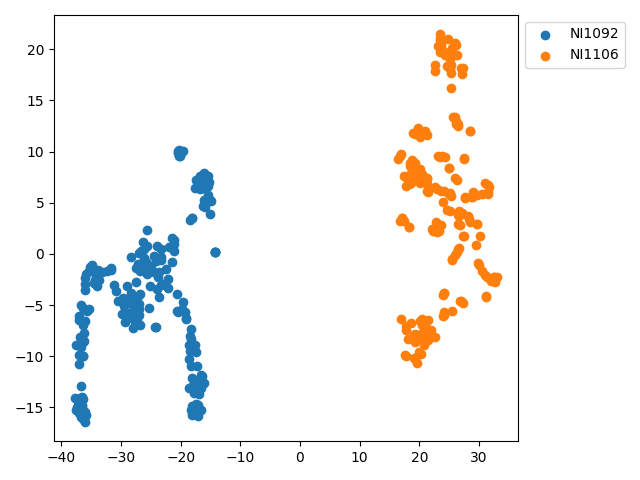
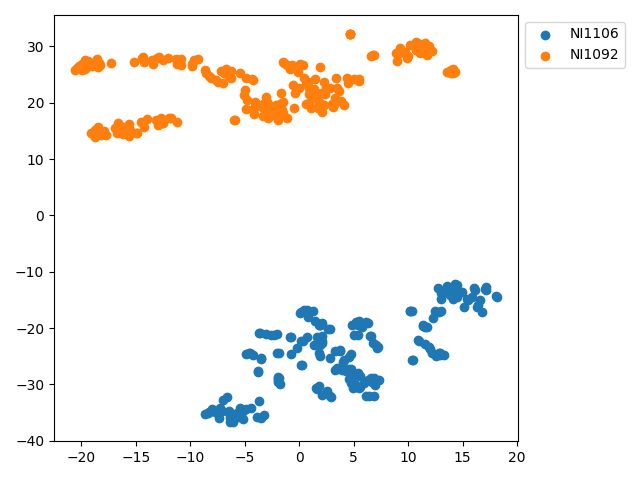
modal visualization image fix

diff --git a/recognition/templates/recognition/train1.html b/recognition/templates/recognition/train1.html
@@ -42,11 +42,9 @@ $(document).ready(function(){
                  dataType:'text',   
                     url:"/train",
                     success:function(data){
-                        if(data==="success"){
                             $('.train-load').addClass('d-none');
+                            $('#model-img').attr('src',data)
                             $('.train-done').removeClass('d-none');
-                            // $('#model-img').attr('src','/static/recognition/img/training_visualisation.png')
-                        }
                     }
                           });
 
@@ -98,7 +96,7 @@ $(document).ready(function(){
 </div>
 </div>
 <div class="col-12 text-center train-done d-none">
-    <img id="model-img" class="img-fluid" src="/static/recognition/img/training_visualisation.png" alt="model Visualization" />    
+    <img id="model-img" class="img-fluid" src="" alt="model Visualization" />    
 </div>
 </div>
 </div>

diff --git a/recognition/views.py b/recognition/views.py
@@ -2,7 +2,7 @@ from django.shortcuts import render,redirect
 from .forms import usernameForm,DateForm,UsernameAndDateForm, DateForm_2,CameraForm
 from django.contrib import messages
 from django.views.decorators import gzip
-from django.http import StreamingHttpResponse
+from django.http import StreamingHttpResponse,HttpResponse
 from django.contrib.auth.models import User
 from .models import Camera
 import cv2
@@ -58,72 +58,7 @@ class VideoCamera(object):
 		image=self.frame
 		_,jpeg=cv2.imencode('.jpg',image)
 		return jpeg.tobytes()
-# 	def get_frame1(self):
-# 		image=self.frame
-# 		detector = dlib.get_frontal_face_detector()	
-# 	predictor = dlib.shape_predictor('face_recognition_data/shape_predictor_68_face_landmarks.dat')   #Add path to the shape predictor ######CHANGE TO RELATIVE PATH LATER
-# 	svc_save_path="face_recognition_data/svc.sav"	
-
-# 	with open(svc_save_path, 'rb') as f:
-# 			svc = pickle.load(f)
-# 	fa = FaceAligner(predictor , desiredFaceWidth = 96)
-# 	encoder=LabelEncoder()
-# 	encoder.classes_ = np.load('face_recognition_data/classes.npy')
-# 	faces_encodings = np.zeros((1,128))
-# 	no_of_faces = len(svc.predict_proba(faces_encodings)[0])
-# 	count = dict()
-# 	present = dict()
-# 	log_time = dict()
-# 	start = dict()
-# 	for i in range(no_of_faces):
-# 		count[encoder.inverse_transform([i])[0]] = 0
-# 		present[encoder.inverse_transform([i])[0]] = False
-
-# # 'rtsp://mdpadmin:admin@10.95.9.27:554/Streaming/Channels/101/'
-# 	vs = VideoStream(src=0).start()
-# 	sampleNum = 0
-
-# 	while(True):
-# 		frame = vs.read()
-# 		frame = imutils.resize(frame ,width = 800)	
-# 		gray_frame = cv2.cvtColor(frame, cv2.COLOR_BGR2GRAY)
-# 		faces = detector(gray_frame,0)
-# 		for face in faces:
-# 			print("INFO : inside for loop")
-# 			(x,y,w,h) = face_utils.rect_to_bb(face)
-# 			face_aligned = fa.align(frame,gray_frame,face)
-# 			cv2.rectangle(frame,(x,y),(x+w,y+h),(0,255,0),1)
-# 			(pred,prob)=predict(face_aligned,svc)
-# 			if(pred!=[-1]):
-# 				print("face detected")
-# 				person_name=encoder.inverse_transform(np.ravel([pred]))[0]
-# 				pred=person_name
-# 				if count[pred] == 0:
-# 					start[pred] = time.time()
-# 					count[pred] = count.get(pred,0) + 1
-# 					try:
-# 						update_attendance_in_db_in(present)
-# 					except Exception as e:
-# 						print(e)
-
-# 				if count[pred] == 10 and (time.time()-start[pred]) > 1.2:
-# 					count[pred] = 0
-# 					try:
-# 						update_attendance_in_db_in(present)
-# 					except Exception as e:
-# 						print(e)
-# 				else:
-# 				#if count[pred] == 4 and (time.time()-start) <= 1.5:
-# 					present[pred] = True
-# 					log_time[pred] = datetime.datetime.now()
-# 					count[pred] = count.get(pred,0) + 1
-# 					print(pred, present[pred], count[pred])
-# 				cv2.putText(frame, str(person_name)+ str(prob), (x+6,y+h-6), cv2.FONT_HERSHEY_SIMPLEX,0.5,(0,255,0),1)
-
-# 			else:
-# 				person_name="unknown"
-# 				cv2.putText(frame, str(person_name), (x+6,y+h-6), cv2.FONT_HERSHEY_SIMPLEX,0.5,(0,255,0),1)
-
+		
 	def update(self):
 		while True:
 			(self.grabbed, self.frame) = self.video.read()
@@ -288,6 +223,7 @@ def vizualize_Data(embedded, targets,):
 	plt.tight_layout()	
 	plt.savefig('./recognition/static/recognition/img/training_visualisation.png')
 	plt.close()
+	return "/static/recognition/img/training_visualisation.png"
 
 def update_attendance_in_db_in(present):
 	today=datetime.date.today()
@@ -1116,7 +1052,7 @@ def add_camera(request):
 def train(request):
 	if request.user.username!='admin':
 		return redirect('not-authorised')
-
+	src=""
 	training_dir='face_recognition_data/training_dataset'
 
 	count=0
@@ -1158,11 +1094,11 @@ def train(request):
 	svc_save_path="face_recognition_data/svc.sav"
 	with open(svc_save_path, 'wb') as f:
 		pickle.dump(svc,f)
-	vizualize_Data(X1,targets)
+	src=vizualize_Data(X1,targets)
 	
 	messages.success(request, f'Training Complete.')
-
-	return render(request,"recognition/train.html")
+	return HttpResponse(src)
+	# return render(request,"recognition/train.html")
 
 @login_required
 def train_modal(request):
